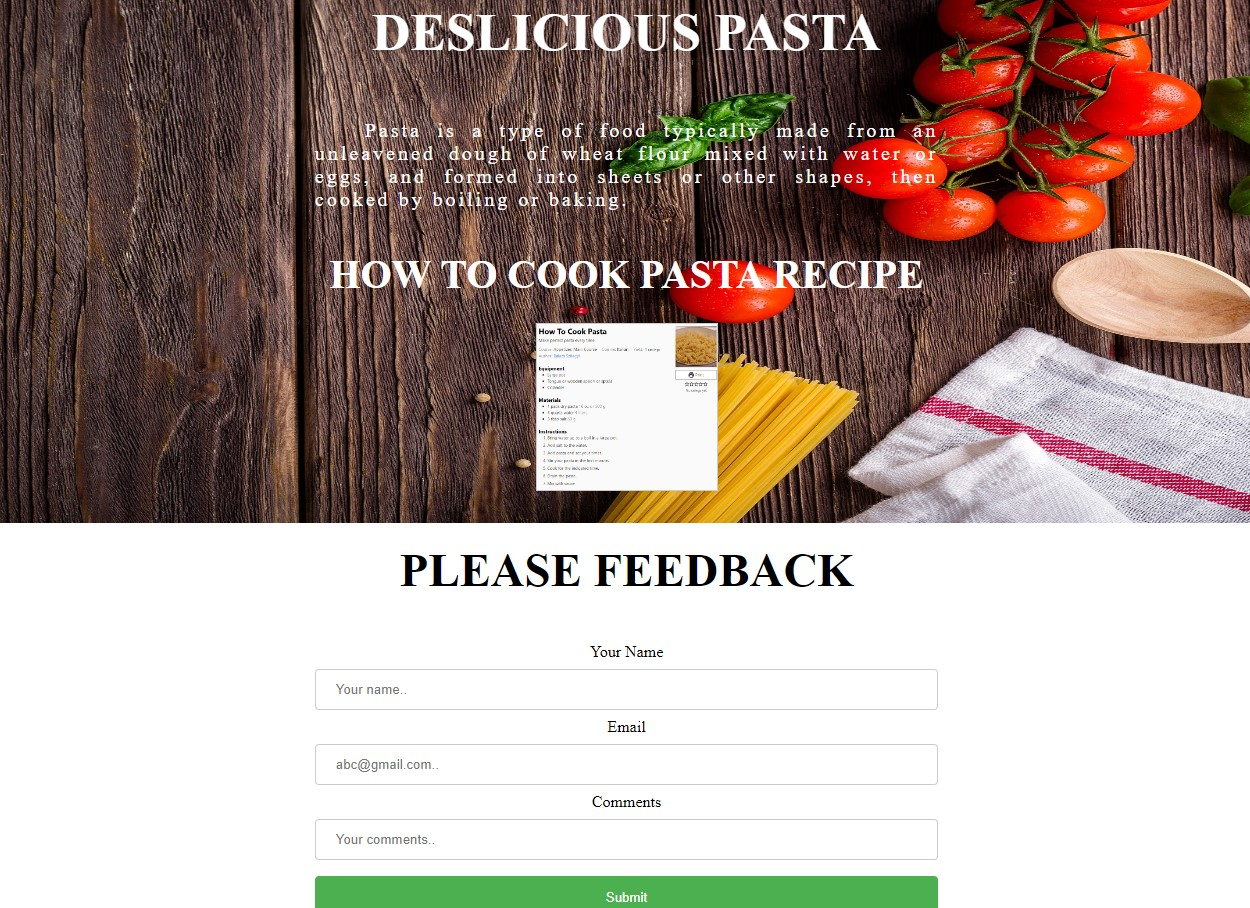
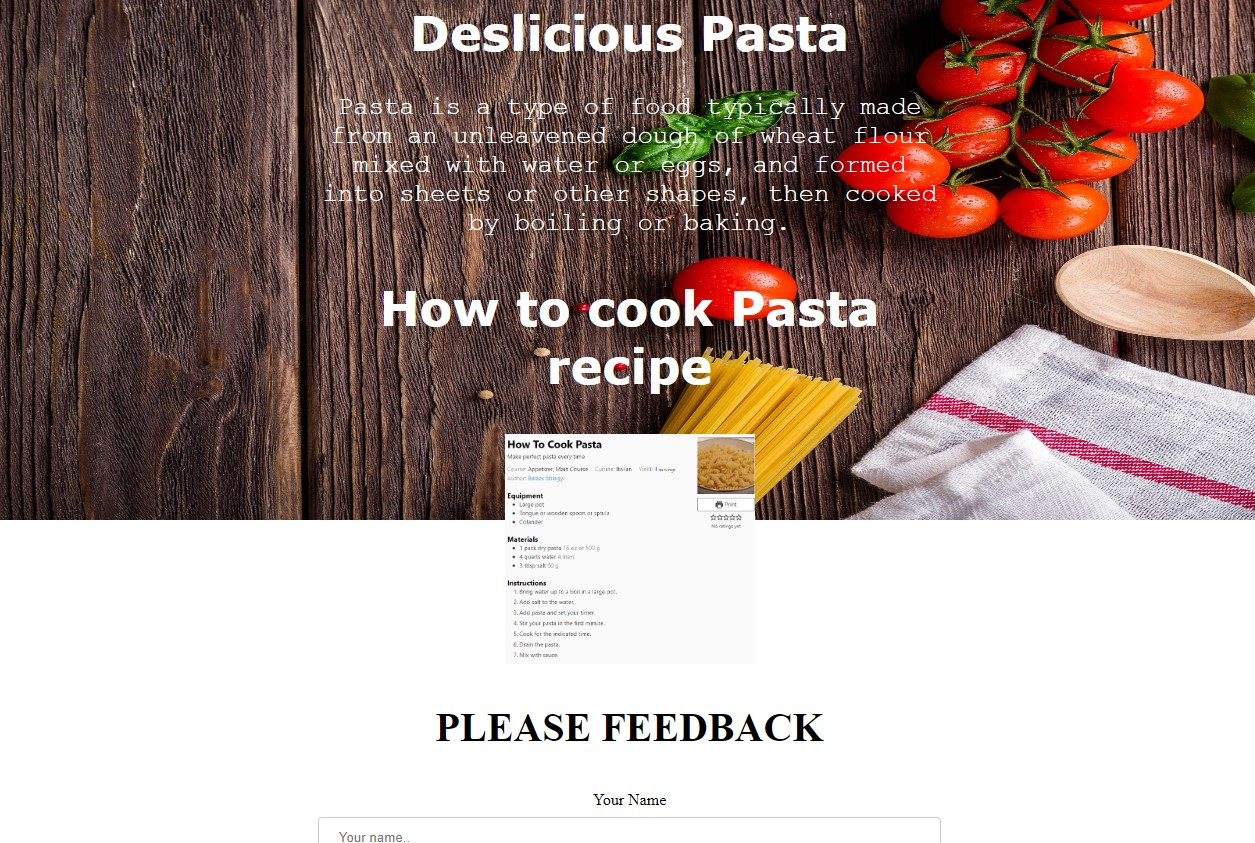
Add files via upload

diff --git a/responsive email/style.css b/responsive email/style.css
@@ -4,45 +4,14 @@ body {
   background-size: 1500px 525px
 }
 
-
-
-h1 {
-  text-align: center;
-  text-transform: uppercase;
-  color: #ffffff;
-  font-size: 40pt;
-}
-
-
-p {
-  text-indent: 50px;
-  font-size: 15pt;
-  text-align: justify;
-  letter-spacing: 3px;
-  color: #ffffff;
-}
-
-
-.orderBtn {
-  background-color: transparent;
-  color: white;
-  border: 1px solid white;
-  border-radius: 5px;
-  padding: 10px;
-  margin: 10px;
-  font-size: 1.2em;
-  font-weight: bold;
-  cursor: pointer;
-
-}
-
 #container {
   height: 100%;
+  width: 100%;
 }
 
 .center {
   height: 100%;
-  display: flex;
+
   flex-direction: column;
   justify-content: center;
   align-items: center;
@@ -51,11 +20,21 @@ p {
   margin: auto;
 }
 
-
-.orderBtn:hover {
-  background-color: white;
-  color: white;
+h1,
+h2 {
+  color: rgb(255, 255, 255);
+  font-family: verdana;
+  font-size: 300%;
 }
+
+p {
+  color: rgb(255, 255, 255);
+  font-family: courier;
+  font-size: 160%;
+}
+
+
+
 
 input[type=text],
 select {
@@ -83,45 +62,16 @@ input[type=submit]:hover {
   background-color: #45a049;
 }
 
-.div2 {
-  width: 300px;
-  height: 100px;
-  padding: 50px;
-  border: 1px solid rgb(59, 43, 43);
-}
 
-.h2 {
-  text-align: center;
-  text-transform: uppercase;
-  color: #ffffff;
-  font-size: 30pt;
 
-}
-
-div.gallery {
-  margin: 5px;
-  border: 1px solid #ccc;
-  float: left;
-  width: 180px;
-}
-
-div.gallery:hover {
-  border: 1px solid #777;
-}
-
-div.gallery img {
-  width: 100%;
-  height: 100%;
-}
-
-div.desc {
-  padding: 15px;
-  text-align: center;
+img {
+  max-width: 100%;
+  height: auto;
 }
 
 .h3 {
   font-size: 30pt;
-  font-optical-sizing: 40;
+  font-optical-sizing: 40px;
   color: black;
   text-align: center;
   text-transform: uppercase;

diff --git a/responsive email/index.html b/responsive email/index.html
@@ -7,30 +7,20 @@
     <title>Document</title>
     <link rel="stylesheet" href="style.css">
 
-
 </head>
 
 <body>
     <div id="container">
         <div class="center">
-            <h1>Deslicious Pasta</h1>
+            <h1 class="h1">Deslicious Pasta</h1>
             <p>Pasta is a type of food typically made from an unleavened dough of wheat flour mixed with water or eggs,
                 and formed into sheets or other shapes, then cooked by boiling or baking.</p>
-            <h2>
-                <div class="h2">How to cook Pasta recipe</div>
-            </h2>
-
-            <div class="gallery">
-                <a target="_blank" href="cooking.jpg">
-                    <img src="cooking.jpg" alt="" width="" height="">
-                </a>
-            </div>
-            <div class="h3">
-                <h3>please feedback</h3>
-            </div>
-
-
-            <form action="/action_page.php">
+            <h2 class="h2">How to cook Pasta recipe</h2>
+            <a target="_blank" href="cooking.jpg">
+                <img src="cooking.jpg" alt="" width="250" height="250">
+            </a>
+            <h3 class="h3">please feedback</h3>
+            <form action="" id="input">
                 <label for="fname">Your Name</label>
                 <input type="text" id="fname" name="yourname" placeholder="Your name..">
                 <label for="email">Email</label>
@@ -39,6 +29,7 @@
                 <input type="text" id="email" name="email" placeholder="Your comments..">
                 <input type="submit" value="Submit">
             </form>
+
 </body>
 
 </html>
